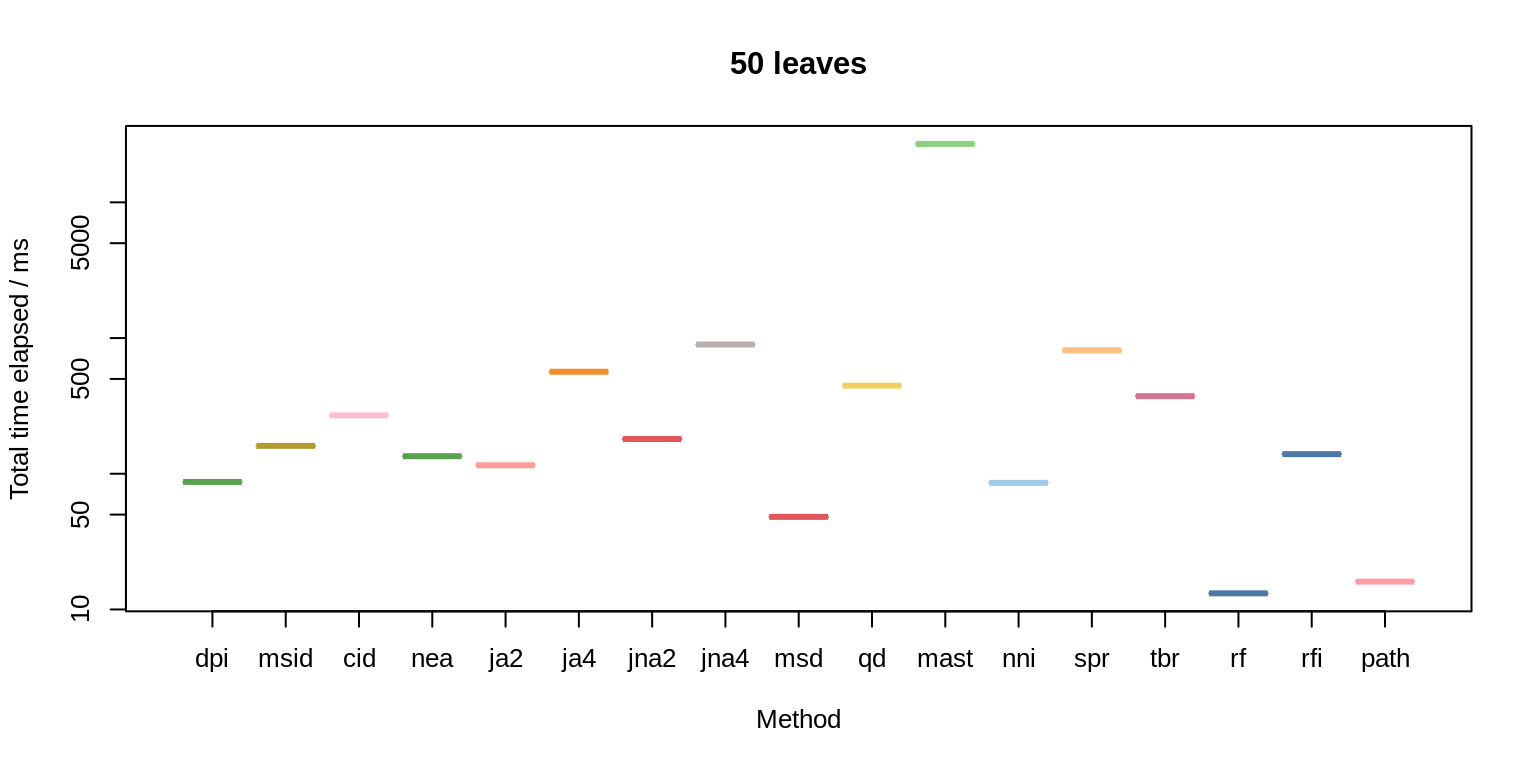
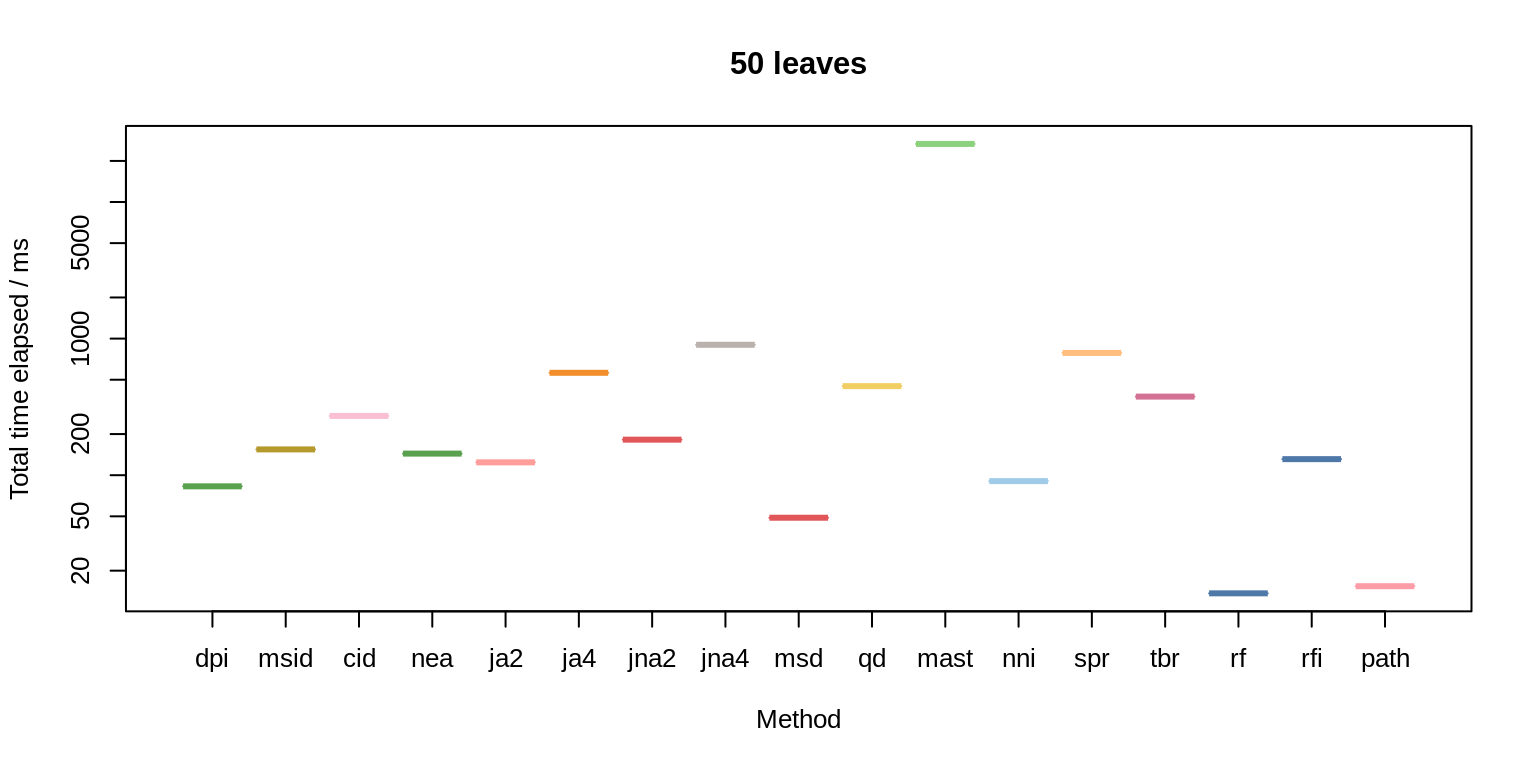
Built site for TreeDistData: 0.0.0.9008@0e53adf

diff --git a/articles/timing.html b/articles/timing.html
@@ -142,87 +142,87 @@
 <tbody>
 <tr class="odd">
 <td>Path</td>
-<td align="right">10</td>
+<td align="right">9.7</td>
 <td align="right">16</td>
 </tr>
 <tr class="even">
 <td>Robinson-Foulds</td>
-<td align="right">11</td>
-<td align="right">13</td>
+<td align="right">10.0</td>
+<td align="right">14</td>
 </tr>
 <tr class="odd">
 <td>Match. Split Dist.</td>
-<td align="right">17</td>
+<td align="right">17.0</td>
 <td align="right">49</td>
 </tr>
 <tr class="even">
 <td>Diff. Phylog. Info</td>
-<td align="right">24</td>
-<td align="right">88</td>
+<td align="right">23.0</td>
+<td align="right">84</td>
 </tr>
 <tr class="odd">
-<td>Nye et al.</td>
-<td align="right">25</td>
-<td align="right">140</td>
+<td>Match. Split Info Dist</td>
+<td align="right">24.0</td>
+<td align="right">160</td>
 </tr>
 <tr class="even">
-<td>Match. Split Info Dist</td>
-<td align="right">26</td>
-<td align="right">160</td>
+<td>Nye et al.</td>
+<td align="right">25.0</td>
+<td align="right">150</td>
 </tr>
 <tr class="odd">
 <td>JRF (k=2, arboreal)</td>
-<td align="right">27</td>
-<td align="right">120</td>
+<td align="right">27.0</td>
+<td align="right">130</td>
 </tr>
 <tr class="even">
 <td>JRF (k=2, non-arb.)</td>
-<td align="right">30</td>
+<td align="right">29.0</td>
 <td align="right">180</td>
 </tr>
 <tr class="odd">
-<td>JRF (k=4, arboreal)</td>
-<td align="right">45</td>
-<td align="right">570</td>
+<td>Robinson-Foulds Info</td>
+<td align="right">44.0</td>
+<td align="right">130</td>
 </tr>
 <tr class="even">
-<td>Robinson-Foulds Info</td>
-<td align="right">47</td>
-<td align="right">140</td>
+<td>JRF (k=4, arboreal)</td>
+<td align="right">45.0</td>
+<td align="right">570</td>
 </tr>
 <tr class="odd">
 <td>Clust. Info. Dist.</td>
-<td align="right">47</td>
+<td align="right">46.0</td>
 <td align="right">270</td>
 </tr>
 <tr class="even">
 <td>NNI (approx.)</td>
-<td align="right">63</td>
-<td align="right">87</td>
+<td align="right">59.0</td>
+<td align="right">91</td>
 </tr>
 <tr class="odd">
 <td>JRF (k=4, non-arb.)</td>
-<td align="right">67</td>
+<td align="right">64.0</td>
 <td align="right">910</td>
 </tr>
 <tr class="even">
 <td>SPR (approx.)</td>
-<td align="right">99</td>
-<td align="right">820</td>
+<td align="right">99.0</td>
+<td align="right">790</td>
 </tr>
 <tr class="odd">
 <td>TBR (approx.)</td>
-<td align="right">220</td>
+<td align="right">210.0</td>
 <td align="right">380</td>
 </tr>
 <tr class="even">
 <td>Quartet</td>
-<td align="right">250</td>
+<td align="right">240.0</td>
 <td align="right">450</td>
 </tr>
 <tr class="odd">
 <td>MAST size</td>
-<td align="right">6900</td>
+<td align="right">6700.0</td>
 <td align="right">27000</td>
 </tr>
 </tbody>
